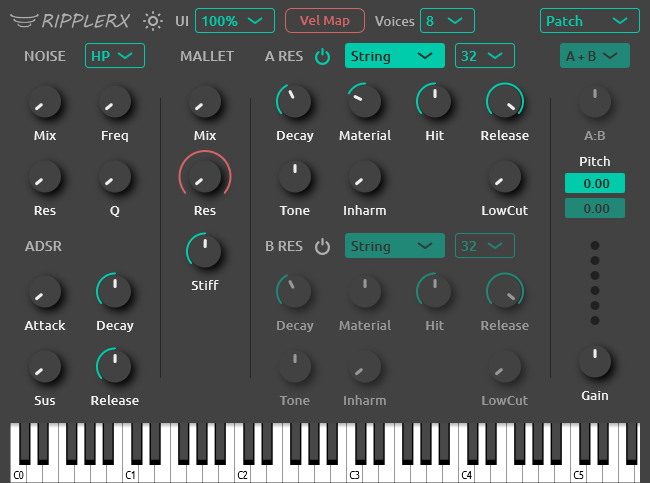
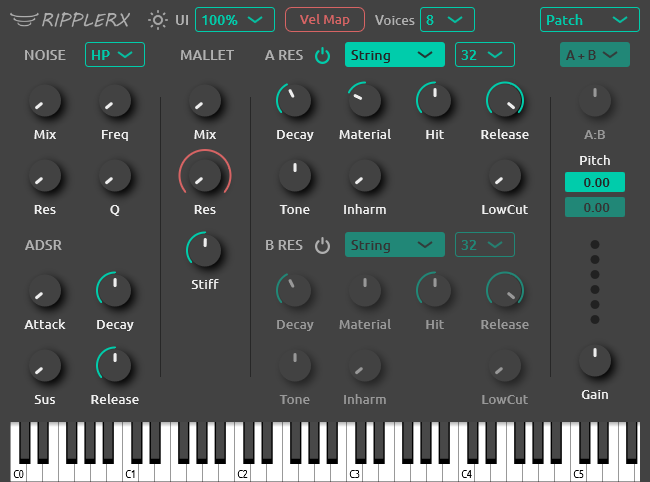
theme small improv

diff --git a/Source/PluginEditor.cpp b/Source/PluginEditor.cpp
@@ -48,6 +48,7 @@ RipplerXAudioProcessorEditor::RipplerXAudioProcessorEditor (RipplerXAudioProcess
 #endif
 
     addAndMakeVisible(sun);
+    sun.setAlpha(0.9f);
     juce::MemoryInputStream sunStream(BinaryData::sun_png, BinaryData::sun_pngSize, false);
     juce::Image sunImage = juce::ImageFileFormat::loadFrom(sunStream);
     if (sunImage.isValid())
@@ -57,7 +58,7 @@ RipplerXAudioProcessorEditor::RipplerXAudioProcessorEditor (RipplerXAudioProcess
             sunImage, 1.0f, juce::Colours::transparentBlack, 
             sunImage, 1.0f, juce::Colours::transparentBlack);
     }
-    sun.setBounds(col+135, row+3, 20, 20);
+    sun.setBounds(col+138, row+3, 20, 20);
     sun.onClick = [this] {
         audioProcessor.toggleTheme();
         loadTheme();
@@ -65,6 +66,7 @@ RipplerXAudioProcessorEditor::RipplerXAudioProcessorEditor (RipplerXAudioProcess
     };
 
     addAndMakeVisible(moon);
+    moon.setAlpha(0.9f);
     juce::MemoryInputStream moonStream(BinaryData::moon_png, BinaryData::moon_pngSize, false);
     juce::Image moonImage = juce::ImageFileFormat::loadFrom(moonStream);
     if (moonImage.isValid())
@@ -74,7 +76,7 @@ RipplerXAudioProcessorEditor::RipplerXAudioProcessorEditor (RipplerXAudioProcess
             moonImage, 1.0f, juce::Colours::transparentBlack, 
             moonImage, 1.0f, juce::Colours::transparentBlack);
     }
-    moon.setBounds(col+135, row+3, 20, 20);
+    moon.setBounds(col+138, row+3, 20, 20);
     moon.onClick = [this] {
         audioProcessor.toggleTheme();
         loadTheme();
